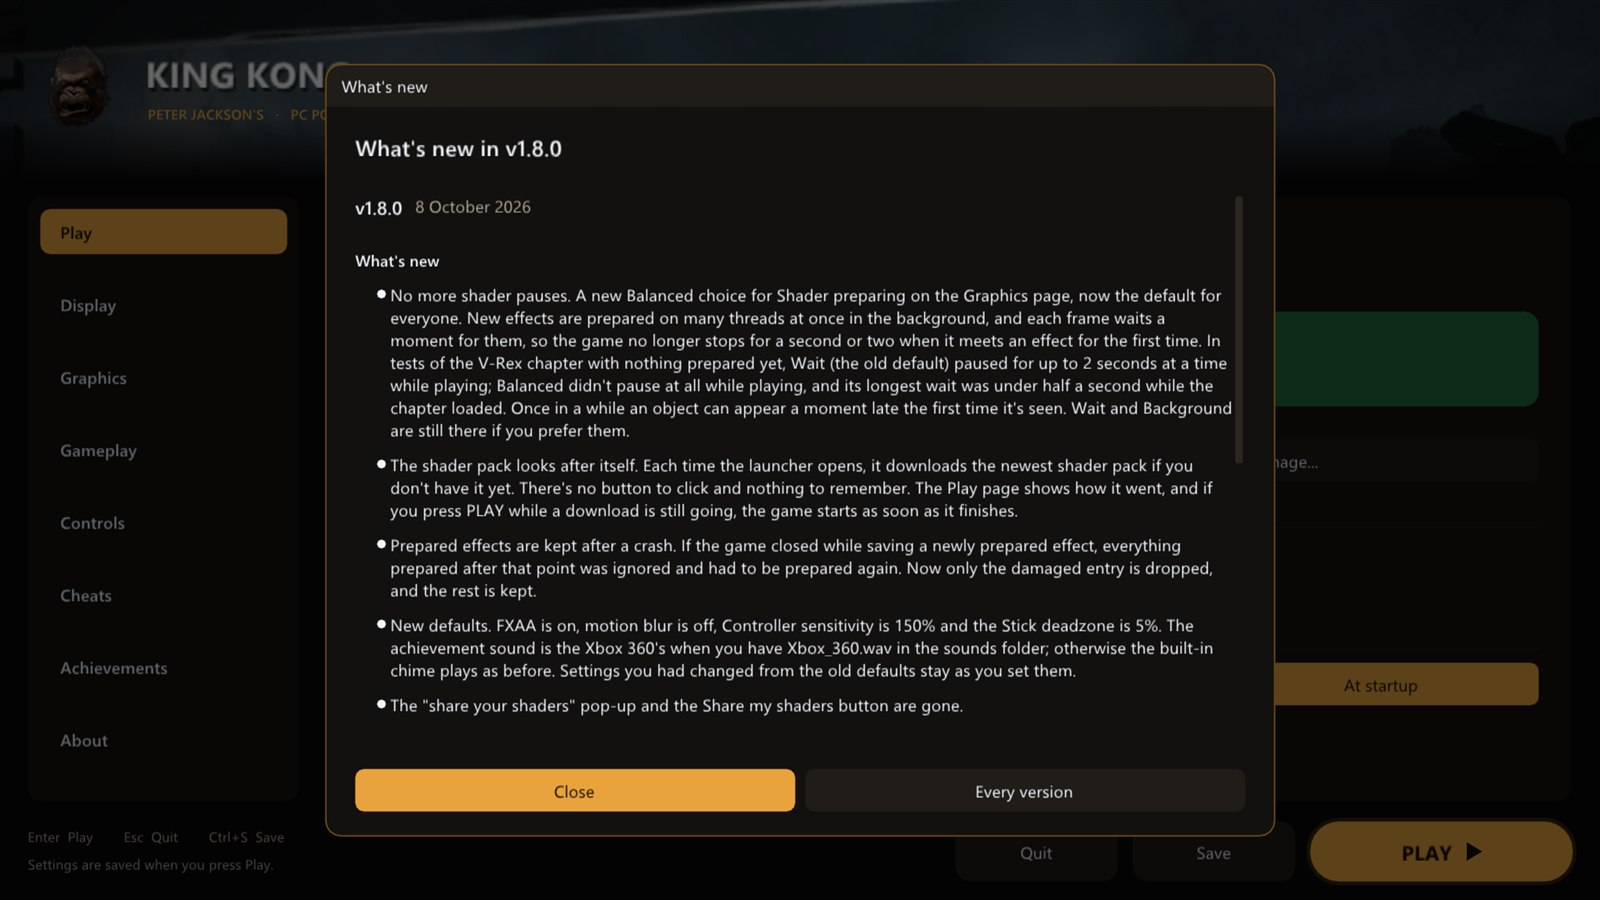
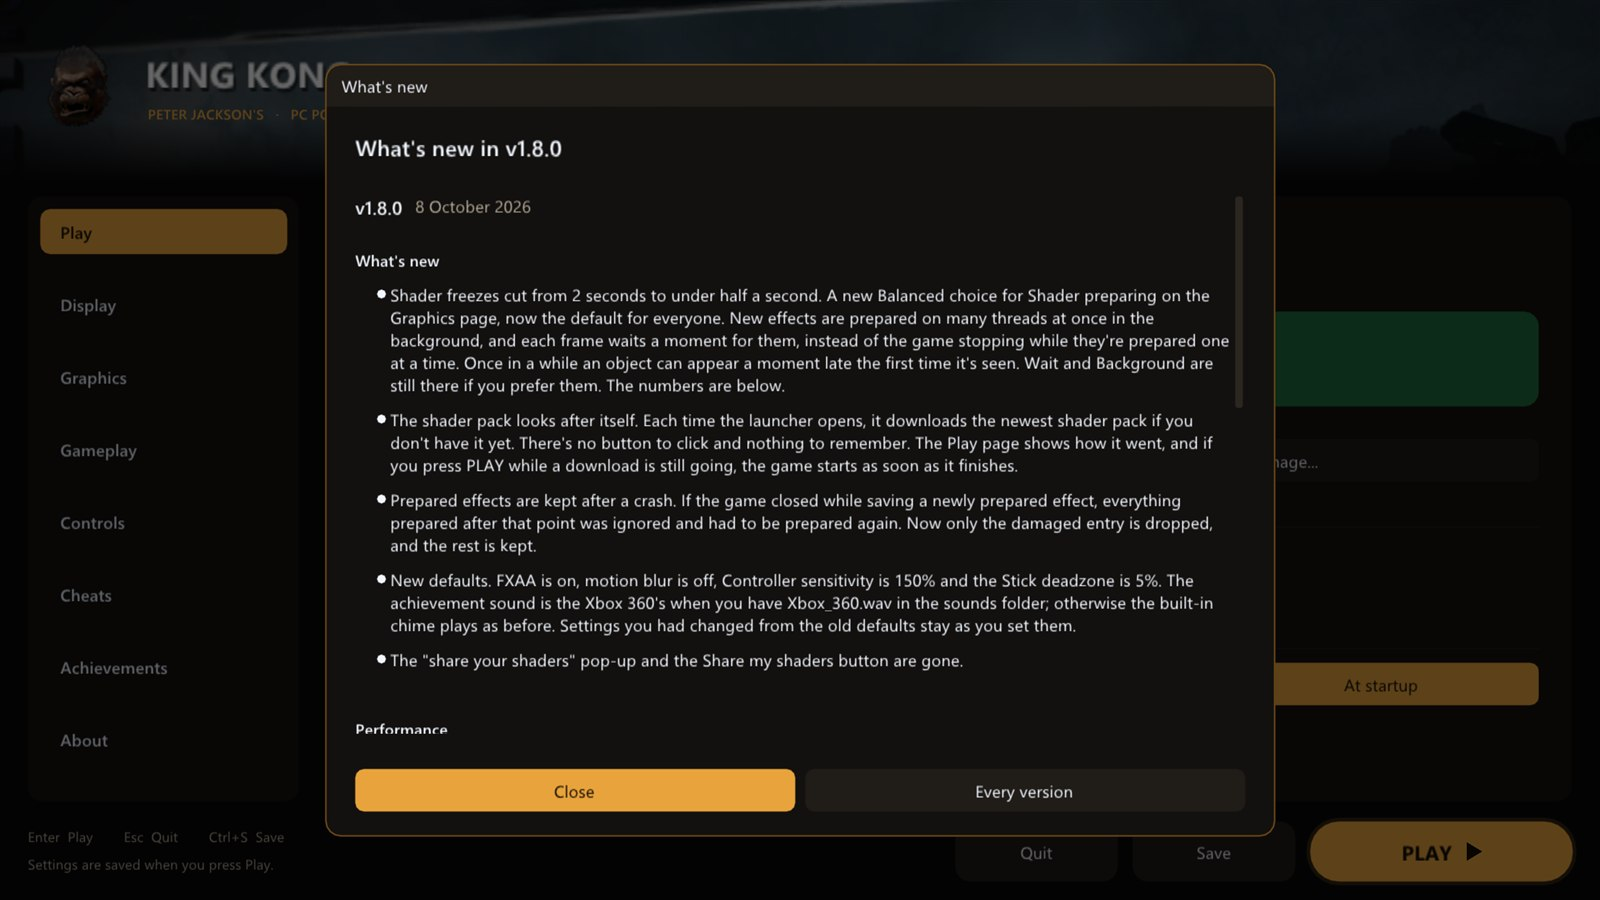
v1.8.0 notes: performance numbers from the V-Rex tests

Changed region(s): [[0.2188, 0.3111, 0.7812, 0.84]]

diff --git a/CHANGELOG.md b/CHANGELOG.md
@@ -6,11 +6,19 @@ version's notes the first time you start it.
 ## v1.8.0 (8 October 2026)
 
 ### What's new
-- **No more shader pauses.** A new **Balanced** choice for **Shader preparing** on the **Graphics** page, now the default for everyone. New effects are prepared on many threads at once in the background, and each frame waits a moment for them, so the game no longer stops for a second or two when it meets an effect for the first time. In tests of the V-Rex chapter with nothing prepared yet, **Wait** (the old default) paused for up to 2 seconds at a time while playing; **Balanced** didn't pause at all while playing, and its longest wait was under half a second while the chapter loaded. Once in a while an object can appear a moment late the first time it's seen. **Wait** and **Background** are still there if you prefer them.
+- **Shader freezes cut from 2 seconds to under half a second.** A new **Balanced** choice for **Shader preparing** on the **Graphics** page, now the default for everyone. New effects are prepared on many threads at once in the background, and each frame waits a moment for them, instead of the game stopping while they're prepared one at a time. Once in a while an object can appear a moment late the first time it's seen. **Wait** and **Background** are still there if you prefer them. The numbers are below.
 - **The shader pack looks after itself.** Each time the launcher opens, it downloads the newest shader pack if you don't have it yet. There's no button to click and nothing to remember. The Play page shows how it went, and if you press **PLAY** while a download is still going, the game starts as soon as it finishes.
 - **Prepared effects are kept after a crash.** If the game closed while saving a newly prepared effect, everything prepared after that point was ignored and had to be prepared again. Now only the damaged entry is dropped, and the rest is kept.
 - **New defaults.** FXAA is on, motion blur is off, **Controller sensitivity** is 150% and the **Stick deadzone** is 5%. The achievement sound is the Xbox 360's when you have `Xbox_360.wav` in the `sounds` folder; otherwise the built-in chime plays as before. Settings you had changed from the old defaults stay as you set them.
 - The "share your shaders" pop-up and the **Share my shaders** button are gone.
+
+### Performance
+Tested on the V-Rex chapter at 30 FPS on its first visit, with the graphics driver's own shader cache bypassed so every effect really was new.
+- **Longest freeze:** 2.08 seconds with Wait (the old default), 0.45 seconds with Balanced.
+- **All the freezes added up:** 3.9 seconds with Wait, 1.3 seconds with Balanced.
+- **With shader pack 2:** the longest freeze was 0.33 seconds with Wait and 0.16 seconds with Balanced.
+
+The freezes came as the chapter started, when the game meets the most new effects at once: up to about 240 in a second, each taking the graphics driver about 20 ms to prepare. In the minute of play after that, neither mode froze. Without a shader pack, Balanced drew about 80 objects a frame late in that minute; with shader pack 2, none.
 
 ### Full changelog
 - Shader preparing: `async_shader_compilation` is now on by default with a new `async_shader_wait_ms`. A draw whose effect is still being prepared waits for it within a budget for each frame of half a frame at your frame rate cap (16 ms at 30 FPS, 8 at 60, 4 from 120 or unlimited), and is skipped only once that is used up. **Background** sets the wait to 0, and **Wait** turns preparing in the background off.

diff --git a/.github/release-notes.md b/.github/release-notes.md
@@ -1,11 +1,22 @@
 ## Peter Jackson's King Kong PC Port v1.8.0
 
 ### What's new
-- **No more shader pauses.** A new **Balanced** choice for **Shader preparing** on the **Graphics** page, now the default for everyone. New effects are prepared on many threads at once in the background, and each frame waits a moment for them, so the game no longer stops for a second or two when it meets an effect for the first time. In tests of the V-Rex chapter with nothing prepared yet, **Wait** (the old default) paused for up to 2 seconds at a time while playing; **Balanced** didn't pause at all while playing, and its longest wait was under half a second while the chapter loaded. Once in a while an object can appear a moment late the first time it's seen. **Wait** and **Background** are still there if you prefer them.
+- **Shader freezes cut from 2 seconds to under half a second.** A new **Balanced** choice for **Shader preparing** on the **Graphics** page, now the default for everyone. New effects are prepared on many threads at once in the background, and each frame waits a moment for them, instead of the game stopping while they're prepared one at a time. Once in a while an object can appear a moment late the first time it's seen. **Wait** and **Background** are still there if you prefer them. The numbers are below.
 - **The shader pack looks after itself.** Each time the launcher opens, it downloads the newest shader pack if you don't have it yet. There's no button to click and nothing to remember. The Play page shows how it went, and if you press **PLAY** while a download is still going, the game starts as soon as it finishes.
 - **Prepared effects are kept after a crash.** If the game closed while saving a newly prepared effect, everything prepared after that point was ignored and had to be prepared again. Now only the damaged entry is dropped, and the rest is kept.
 - **New defaults.** FXAA is on, motion blur is off, **Controller sensitivity** is 150% and the **Stick deadzone** is 5%. The achievement sound is the Xbox 360's when you have `Xbox_360.wav` in the `sounds` folder; otherwise the built-in chime plays as before. Settings you had changed from the old defaults stay as you set them.
 - The "share your shaders" pop-up and the **Share my shaders** button are gone.
+
+### Performance
+Tested on the V-Rex chapter at 30 FPS on its first visit, with the graphics driver's own shader cache bypassed so every effect really was new.
+
+| | Wait (old default) | Balanced (new default) |
+| --- | :---: | :---: |
+| Longest freeze | 2.08 s | **0.45 s** |
+| All the freezes added up | 3.9 s | **1.3 s** |
+| Longest freeze with shader pack 2 | 0.33 s | **0.16 s** |
+
+The freezes came as the chapter started, when the game meets the most new effects at once: up to about 240 in a second, each taking the graphics driver about 20 ms to prepare. In the minute of play after that, neither mode froze. Without a shader pack, Balanced drew about 80 objects a frame late in that minute; with shader pack 2, none.
 
 ### Full changelog
 - Shader preparing: `async_shader_compilation` is now on by default with a new `async_shader_wait_ms`. A draw whose effect is still being prepared waits for it within a budget for each frame of half a frame at your frame rate cap (16 ms at 30 FPS, 8 at 60, 4 from 120 or unlimited), and is skipped only once that is used up. **Background** sets the wait to 0, and **Wait** turns preparing in the background off.
